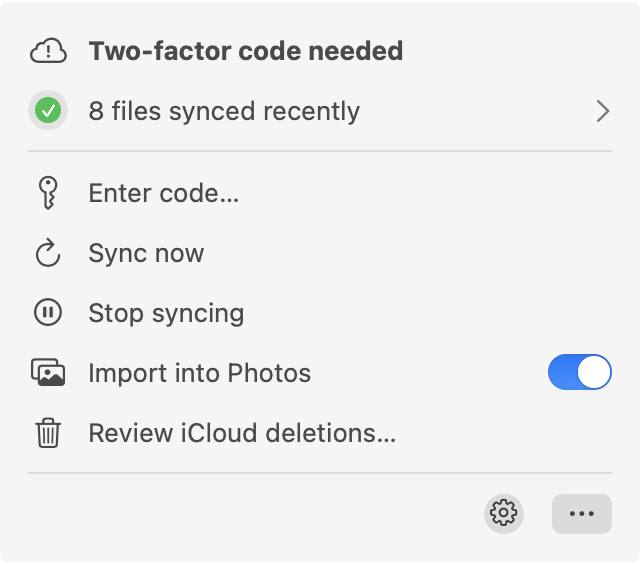
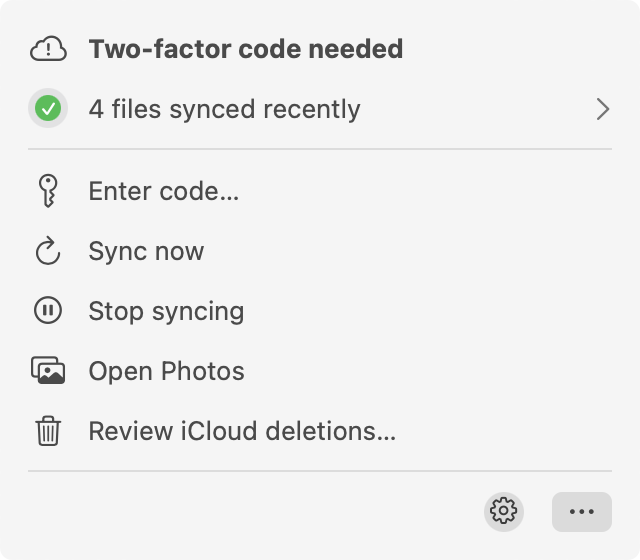
menubar_app: Open Photos in the menu, react to Photos changes, retry deleting from iCloud
- the panel has "Open Photos" instead of the import switch (the switch stays in Settings)
- automatic deletion from Photos also runs about half a minute after the Photos library changes,
  not only after the next sync (which can be an hour away)
- deleting from iCloud is retried after 5 minutes, up to three times, when iCloud cannot be reached
- README and panel screenshots updated

diff --git a/menubar_app/Sources/MenuBarApp/AppModel.swift b/menubar_app/Sources/MenuBarApp/AppModel.swift
@@ -101,6 +101,7 @@ final class AppModel: ObservableObject {
         }
         source.resume()
         termSource = source
+        startLibraryWatch()
         if UserDefaults.standard.bool(forKey: Prefs.startWatchingAtLaunch) {
             DispatchQueue.main.async { self.startWatching() }
         }
@@ -261,6 +262,11 @@ final class AppModel: ObservableObject {
     }
 
     func openWebUI() { NSWorkspace.shared.open(webUIURL) }
+
+    func openPhotosApp() {
+        guard let url = NSWorkspace.shared.urlForApplication(withBundleIdentifier: "com.apple.Photos") else { return }
+        NSWorkspace.shared.openApplication(at: url, configuration: NSWorkspace.OpenConfiguration())
+    }
     func openLog() { NSWorkspace.shared.open(AppLog.url) }
 
     // MARK: - Process end and polling
@@ -440,6 +446,46 @@ final class AppModel: ObservableObject {
     // MARK: - Automatic deletion
 
     private var lastDeletionTask: Task<Void, Never>?
+    private var deletionRetries = 0
+
+    // Deleting in Photos should reach iCloud soon, not at the next sync (up to an hour later): the app
+    // watches the Photos database and checks for deleted photos shortly after it changed.
+    private var libraryTimer: Timer?
+    private var libraryStamp = Date.distantPast
+    private var libraryChangedAt: Date?
+    private var lastLibraryPassAt = Date.distantPast
+
+    private func startLibraryWatch() {
+        libraryStamp = libraryModified()
+        libraryTimer = Timer.scheduledTimer(withTimeInterval: 15, repeats: true) { [weak self] _ in
+            Task { @MainActor in self?.checkLibrary() }
+        }
+    }
+
+    private func libraryModified() -> Date {
+        let database = URL(fileURLWithPath: UserDefaults.standard.string(forKey: Prefs.photosLibrary) ?? "")
+            .appendingPathComponent("database")
+        return ["Photos.sqlite", "Photos.sqlite-wal"].compactMap {
+            (try? FileManager.default.attributesOfItem(atPath: database.appendingPathComponent($0).path))?[.modificationDate] as? Date
+        }.max() ?? .distantPast
+    }
+
+    private func checkLibrary() {
+        let d = UserDefaults.standard
+        guard d.bool(forKey: Prefs.autoDeleteICloud) || d.bool(forKey: Prefs.autoDeleteDisk) else { return }
+        let modified = libraryModified()
+        if modified > libraryStamp {  // still changing: wait until it is quiet
+            libraryStamp = modified
+            libraryChangedAt = Date()
+            return
+        }
+        // 20 s without changes, and not more often than every two minutes (the check copies the database)
+        guard let changed = libraryChangedAt, Date().timeIntervalSince(changed) >= 20,
+              Date().timeIntervalSince(lastLibraryPassAt) >= 120 else { return }
+        libraryChangedAt = nil
+        lastLibraryPassAt = Date()
+        runSerialized { await self.autoDeletePass() }
+    }
 
     /// Deleting in both directions touches the same files, so the passes run one after another and never
     /// at the same time.
@@ -549,11 +595,22 @@ final class AppModel: ObservableObject {
                 if result.ok {
                     deletedFromICloud.formUnion(todo.map(\.id))
                     saveDeletedFromICloud()
+                    deletionRetries = 0
                     recordEvents(.deletedICloud, todo)
                     summary.append("\(todo.count) deleted from iCloud")
                 } else {
-                    deletionStatus = "Deleting from iCloud failed, see the log."
-                    if d.bool(forKey: Prefs.notifyOnError) {
+                    deletionRetries += 1
+                    let willRetry = deletionRetries <= 3
+                    deletionStatus = willRetry
+                        ? "Deleting from iCloud failed, trying again in 5 minutes."
+                        : "Deleting from iCloud failed, see the log."
+                    if willRetry {
+                        AppLog.write("deleting from iCloud failed, trying again in 5 minutes (\(deletionRetries)/3)")
+                        Task { [weak self] in
+                            try? await Task.sleep(nanoseconds: 300 * 1_000_000_000)
+                            self?.runSerialized { await self?.autoDeletePass() }
+                        }
+                    } else if d.bool(forKey: Prefs.notifyOnError) {
                         notify("Deleting from iCloud failed", String(result.output.suffix(200)))
                     }
                     return  // keep the files: they are the only copy left

diff --git a/menubar_app/Sources/MenuBarApp/SettingsView.swift b/menubar_app/Sources/MenuBarApp/SettingsView.swift
@@ -275,7 +275,7 @@ private struct PhotosPane: View {
             Section("When you delete photos in Photos") {
                 Toggle("Delete them from iCloud automatically", isOn: $autoDeleteICloud)
                 Toggle("Delete them from the disk automatically (moves the files to the Trash)", isOn: $autoDeleteDisk)
-                Text("Both switches are off by default and work separately. They run after every sync, for photos that are in Photos “Recently Deleted” and match a downloaded file. A photo deleted only from the disk can be downloaded again while it is among the newest photos in iCloud.")
+                Text("Both switches are off by default and work separately. They run after every sync and shortly after something changes in Photos, for photos that are in Photos “Recently Deleted” and match a downloaded file. A photo deleted only from the disk can be downloaded again while it is among the newest photos in iCloud.")
                     .font(.caption).foregroundStyle(.secondary)
                 if !app.deletionStatus.isEmpty {
                     Text(app.deletionStatus).font(.callout).foregroundStyle(.secondary)

diff --git a/menubar_app/Sources/MenuBarApp/App.swift b/menubar_app/Sources/MenuBarApp/App.swift
@@ -44,7 +44,6 @@ final class PanelLayout: ObservableObject {
 struct PanelView: View {
     @EnvironmentObject var model: AppModel
     @Environment(\.openWindow) private var openWindow
-    @AppStorage(Prefs.autoImportToPhotos) private var autoImport = false
     @StateObject private var layout = PanelLayout()
 
     var body: some View {
@@ -106,11 +105,7 @@ struct PanelView: View {
             } else {
                 PanelButton(title: "Start syncing", icon: "play.circle") { model.startWatching() }
             }
-            PanelRow(icon: { Image(systemName: "photo.on.rectangle").font(.system(size: 14)) }) {
-                Text("Import into Photos")
-            } trailing: {
-                Toggle("", isOn: $autoImport).labelsHidden().toggleStyle(.switch).controlSize(.small)
-            }
+            PanelButton(title: "Open Photos", icon: "photo.on.rectangle") { model.openPhotosApp() }
             PanelButton(title: "Review iCloud deletions…", icon: "trash") { show("review") }
 
             Divider()

diff --git a/menubar_app/README.md b/menubar_app/README.md
@@ -96,7 +96,7 @@ Permissions the app may ask for:
 
 - **Sync now** ends the waiting period and checks iCloud immediately. The header shows *Syncing now…* at once.
 - **Start / Stop syncing** starts or stops the background sync.
-- **Import into Photos** is a quick switch for [automatic import](#import-into-photos).
+- **Open Photos** opens the Photos app.
 - **Review iCloud deletions…** opens the [review window](#deleting-what-you-deleted-in-photos).
 - The row with the green check opens **Sync Activity**; the gear opens **Settings**; the three dots open the web UI,
   the log, and Quit.
@@ -139,7 +139,7 @@ Every option is passed to `icloudpd` only when it differs from its own default. 
 
 ## Import into Photos
 
-Turn on **Import into Photos** (panel or **Apple Photos** settings). Every file `icloudpd` downloads from then on is
+Turn on **Import new downloads into Photos automatically** in the **Apple Photos** settings. Every file `icloudpd` downloads from then on is
 imported with AppleScript into the library the Photos app has open, normally the System Photo Library. The app
 remembers what it imported and does not import a file twice; Photos skips photos it already has. Photos opens when
 something is imported.
@@ -167,7 +167,9 @@ Trash. Nothing is removed for good.
 - *Delete them from iCloud automatically*
 - *Delete them from the disk automatically (moves the files to the Trash)*
 
-They run after every sync. With both on, a file is only moved to the Trash after iCloud confirmed the deletion. Mind that
+They run after every sync and about half a minute after something changes in Photos, so a photo you delete there is
+handled soon and not at the next sync. With both on, a file is only moved to the Trash after iCloud confirmed the
+deletion. If iCloud cannot be reached, the app tries again after 5 minutes, up to three times. Mind that
 a photo deleted only from the disk can be downloaded again while it is among the newest photos in iCloud.
 
 **Safety limit**: when more than N photos (default 20, changeable) would be deleted at once, nothing happens until you
